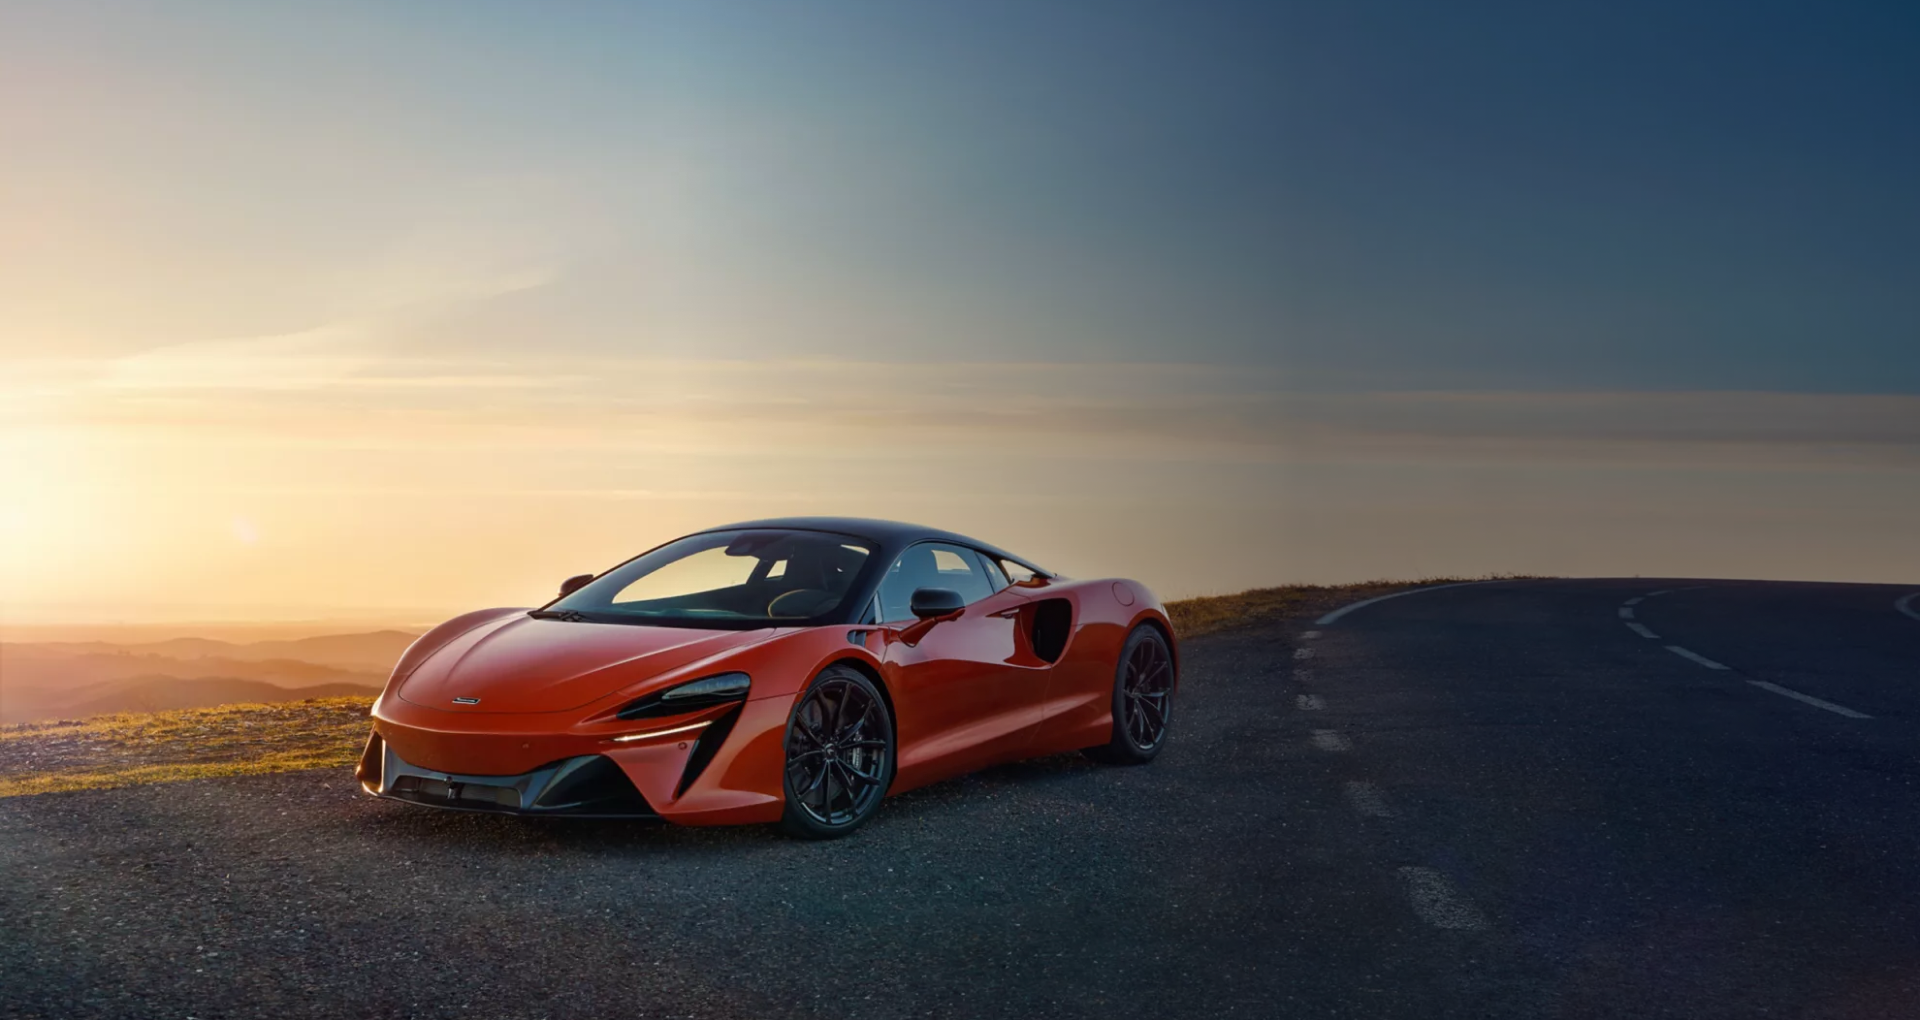
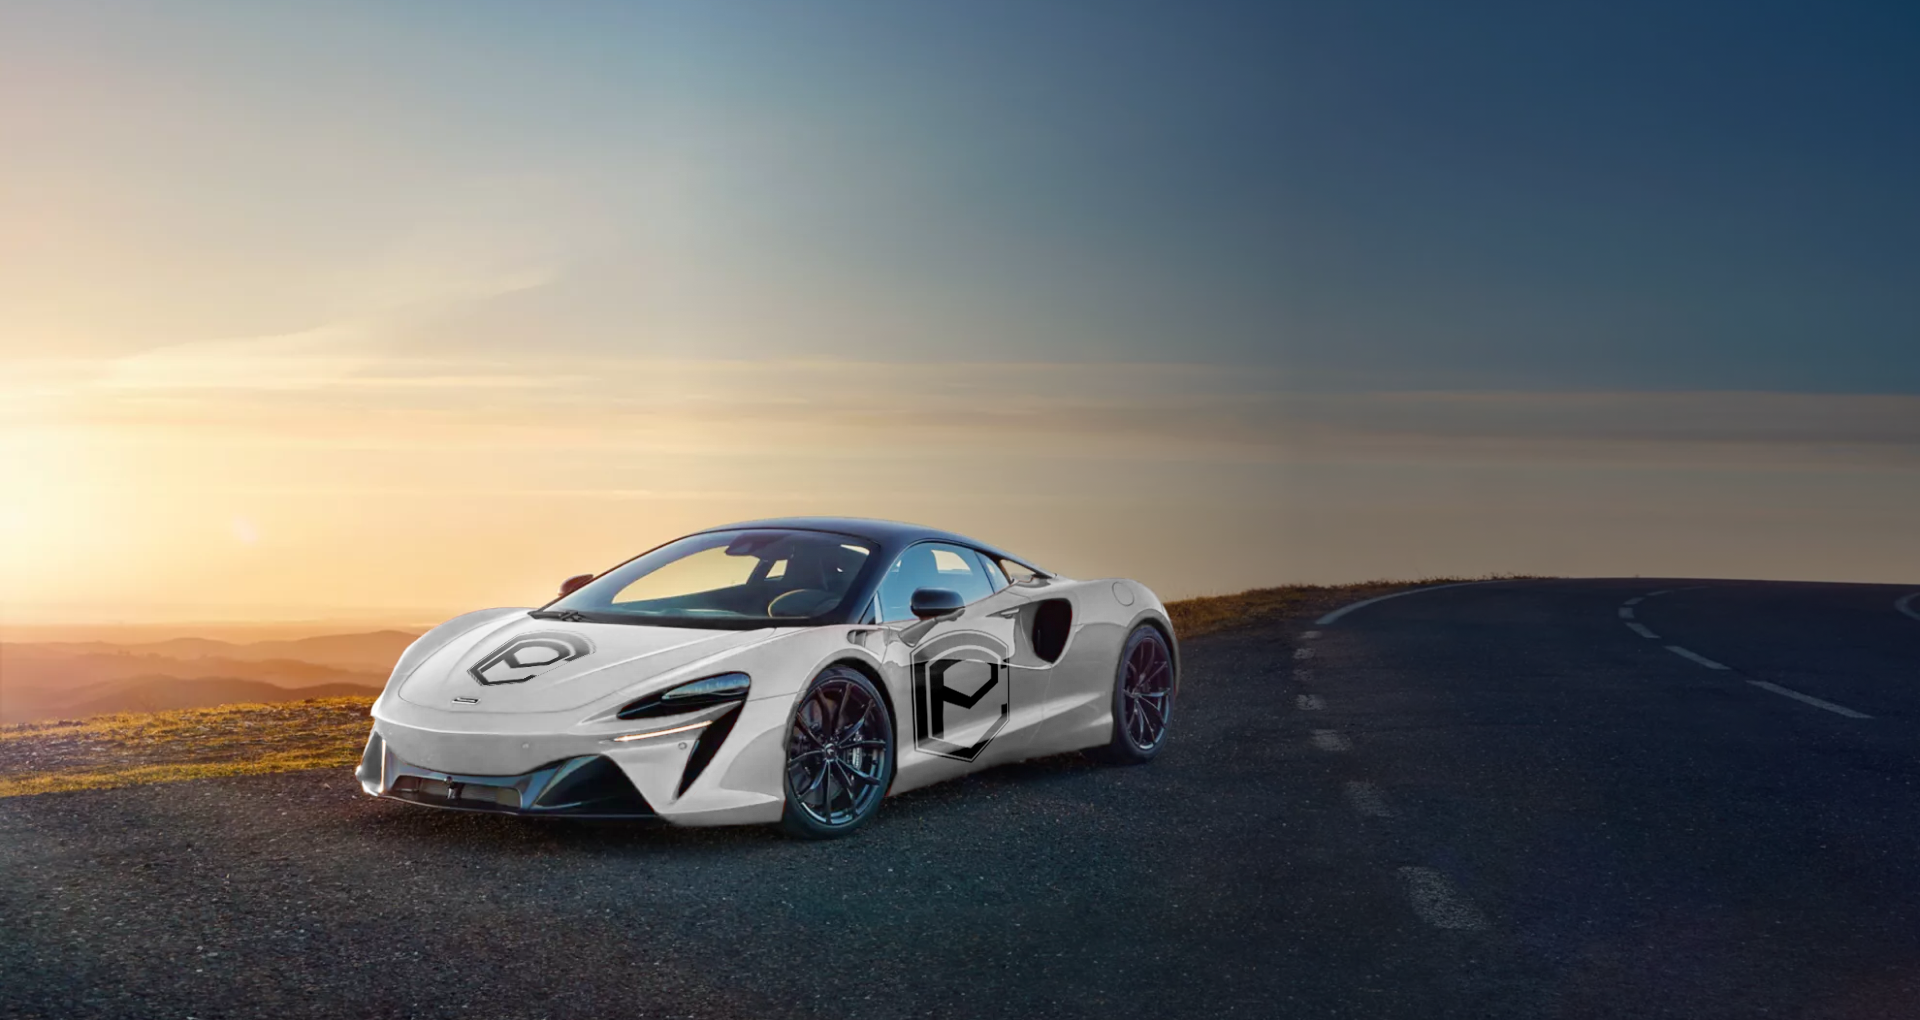
fix routing and change background image for brending

Changed region(s): [[0.1875, 0.4863, 0.625, 0.8206]]

diff --git a/prime-car/src/Pages/SignUp/SignUp.jsx b/prime-car/src/Pages/SignUp/SignUp.jsx
@@ -15,7 +15,7 @@ function Copyright(props) {
     return (
         <Typography variant="body2" color="text.secondary" align="center" {...props}>
             {'Copyright © '}
-            <Link color="inherit" href="/prime-car/public">
+            <Link color="inherit" href="/">
                 Prime Car
             </Link>{' '}
             {new Date().getFullYear()}
